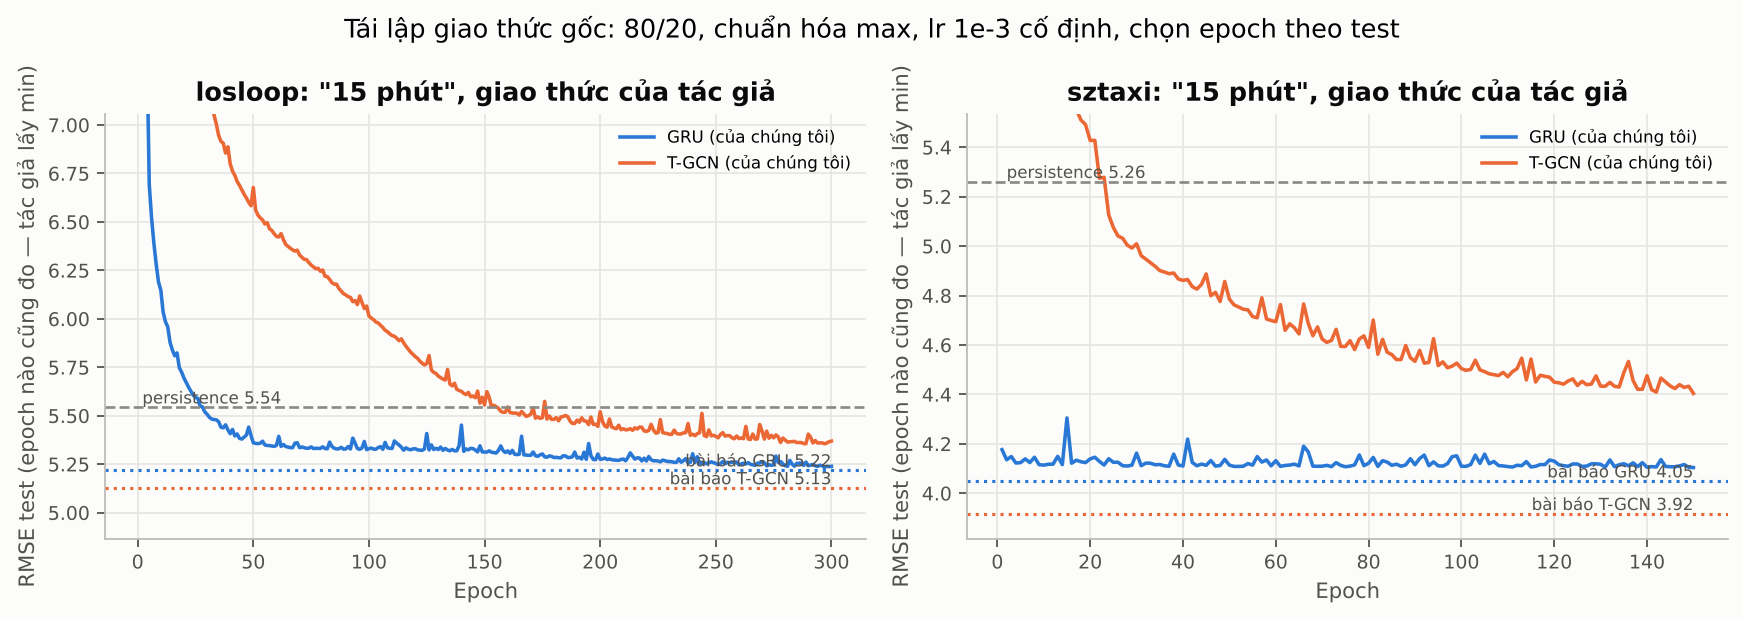
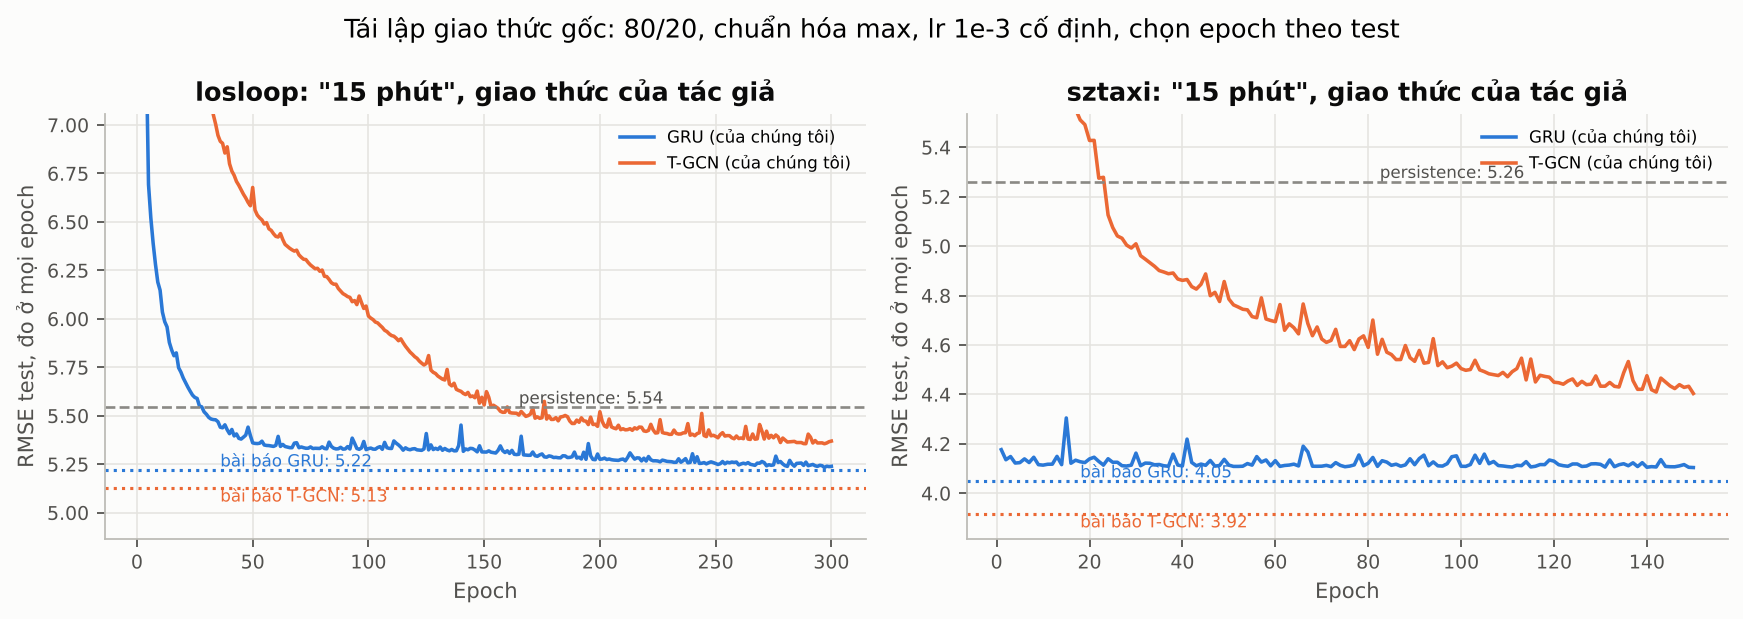
Critique: SZ-taxi HA baseline in the paper is ~1.9x too weak
On the authors' own test windows a 12-step moving average reaches
RMSE 4.17 / MAE 2.74 on SZ-taxi (paper HA: 7.92 / 5.50), within ~1%
MAE of the reported T-GCN.

Claude-Session: https://claude.ai/code/session_01B22viBVGJcNTDcZfHB3jNA

diff --git a/analysis/paper_protocol.py b/analysis/paper_protocol.py
@@ -23,7 +23,9 @@ def naive_same_windows(ds, pre_len, seq_len=12):
         X.append(test[i:i + seq_len]); Y.append(test[i + seq_len:i + seq_len + pre_len])
     X, Y = np.array(X), np.array(Y)
     e = np.repeat(X[:, -1:], pre_len, 1) - Y
-    return float(np.sqrt((e ** 2).mean())), float(np.abs(e).mean())
+    w = np.repeat(X.mean(1, keepdims=True), pre_len, 1) - Y
+    return (float(np.sqrt((e ** 2).mean())), float(np.abs(e).mean()),
+            float(np.sqrt((w ** 2).mean())), float(np.abs(w).mean()))
 
 
 def main():
@@ -31,8 +33,10 @@ def main():
     fig, axes = plt.subplots(1, 2, figsize=(11, 3.9))
     for ax, ds in zip(axes, ('losloop', 'sztaxi')):
         pre, mins = SETUP[ds]
-        nr, na = naive_same_windows(ds, pre)
+        nr, na, hr, ha = naive_same_windows(ds, pre)
         rows.append({'dataset': ds, 'model': 'naive', 'epochs': 0, 'RMSE': nr, 'MAE': na})
+        rows.append({'dataset': ds, 'model': 'ha_window', 'epochs': 0, 'RMSE': hr, 'MAE': ha,
+                     'paper_RMSE': PAPER[ds]['ha_window'][mins][0], 'paper_MAE': PAPER[ds]['ha_window'][mins][1]})
         for i, m in enumerate(('gru', 'tgcn')):
             d = ROOT / 'results' / ds / 'paper_protocol' / m / 'seed_42'
             if not (d / 'metrics.json').is_file():
@@ -47,14 +51,14 @@ def main():
                          'RMSE_epoch_half': float(h.test_rmse_raw_monitor.iloc[len(h) // 2 - 1])})
             ax.plot(h.epoch, h.test_rmse_raw_monitor, color=ps.color(m), lw=1.6, label=f'{ps.label(m)} (của chúng tôi)')
             ax.axhline(PAPER[ds][m][mins][0], color=ps.color(m), ls=':', lw=1.4)
-            ax.text(h.epoch.iloc[-1], PAPER[ds][m][mins][0], f'bài báo {ps.label(m)} {PAPER[ds][m][mins][0]:.2f}',
-                    ha='right', va='bottom', fontsize=7.5, color=ps.INK2)
+            ax.text(len(h) * 0.12, PAPER[ds][m][mins][0], f'bài báo {ps.label(m)}: {PAPER[ds][m][mins][0]:.2f}',
+                    ha='left', va='bottom' if m == 'gru' else 'top', fontsize=7.5, color=ps.color(m))
         ax.axhline(nr, color=ps.NEUTRAL, ls='--', lw=1.2)
-        ax.text(2, nr, f'persistence {nr:.2f}', fontsize=7.5, color=ps.INK2, va='bottom')
+        ax.text(len(h) * 0.55, nr, f'persistence: {nr:.2f}', fontsize=7.5, color=ps.INK2, va='bottom')
         lo = min(r['RMSE'] for r in rows if r['dataset'] == ds) * 0.93
         ax.set_ylim(lo, lo * 1.45)
         ax.set(title=f'{ds}: "{mins} phút", giao thức của tác giả', xlabel='Epoch',
-               ylabel='RMSE test (epoch nào cũng đo — tác giả lấy min)')
+               ylabel='RMSE test, đo ở mọi epoch')
         ax.legend(fontsize=7.5, loc='upper right')
     fig.suptitle('Tái lập giao thức gốc: 80/20, chuẩn hóa max, lr 1e-3 cố định, chọn epoch theo test', fontsize=11.5)
     fig.tight_layout(); fig.savefig(FIG / 'paper_protocol_curves.png'); plt.close(fig)

diff --git a/tools/build_report.py b/tools/build_report.py
@@ -212,9 +212,11 @@ def paper_protocol_table():
     rows = []
     for _, r in df.iterrows():
         mins = '15 phút'
-        if r.model == 'naive':
-            rows.append({'Bộ dữ liệu': r.dataset, 'Mô hình': label('naive'), 'epoch train': '—',
-                         'Chúng tôi (RMSE / MAE)': f'{r.RMSE:.3f} / {r.MAE:.3f}', 'Bài báo (RMSE / MAE)': '— (không báo cáo)',
+        if r.model in ('naive', 'ha_window'):
+            rows.append({'Bộ dữ liệu': r.dataset, 'Mô hình': label(r.model), 'epoch train': '—',
+                         'Chúng tôi (RMSE / MAE)': f'{r.RMSE:.3f} / {r.MAE:.3f}',
+                         'Bài báo (RMSE / MAE)': '— (không báo cáo)' if r.model == 'naive'
+                         else f'{r.paper_RMSE:.3f} / {r.paper_MAE:.3f}',
                          'Accuracy / R² (chúng tôi | bài báo)': '—'})
             continue
         rows.append({'Bộ dữ liệu': r.dataset, 'Mô hình': label(r.model), 'epoch train': f'{int(r.epochs)} (tốt nhất: {int(r.best_epoch)})',

diff --git a/reports/BAO_CAO_TGCN.md b/reports/BAO_CAO_TGCN.md
@@ -144,6 +144,8 @@ Không có tập validation. Đây là rò rỉ thông tin từ test vào lựa 
 
 **P6. "Không nhạy với tầm dự báo" là tính chất của dữ liệu, không phải của mô hình.** Trên SZ-taxi, RMSE của T-GCN chỉ tăng từ 3.92 (15 phút) lên 4.01 (60 phút). Nhưng chính trung bình trượt 3 giờ (HA cửa sổ) cũng gần như phẳng (4.16 → 4.31 trong thực nghiệm của chúng tôi): chuỗi SZ-taxi nhiễu và gần như dừng ở độ phân giải 15 phút, nên tầm dự báo ít quan trọng với *mọi* mô hình.
 
+**P6b. Baseline HA trên SZ-taxi yếu bất thường.** Trên đúng các cửa sổ test của tác giả, trung bình 12 bước đầu vào (định nghĩa HA mà con số Los-loop của bài báo khớp: 7.48 / 3.97 so với 7.44 / 4.01) cho SZ-taxi **RMSE 4.17 / MAE 2.74**, trong khi bài báo ghi HA = 7.92 / 5.50. Với baseline đúng, khoảng cách "T-GCN tốt hơn HA 50.6%" biến mất: MAE của T-GCN (2.71) chỉ hơn trung bình trượt 3 giờ khoảng 1%, MAE của GRU (2.68) khoảng 2%.
+
 **P7. Một lần chạy, không có độ biến thiên.** Bảng 1 không có độ lệch chuẩn hay kiểm định. Khi chênh lệch giữa GRU và T-GCN chỉ khoảng 1–3%, không thể biết nó có vượt nhiễu do khởi tạo ngẫu nhiên hay không (mục 8).
 
 **P8. Dữ liệu.** Los-loop chỉ dài 7 ngày và chứa đoạn nội suy (gồm một lần mất dữ liệu toàn mạng); SZ-taxi có 24.8% giá trị 0 vốn là thiếu quan sát nhưng vẫn được dùng làm mục tiêu (mục 2.3).
@@ -515,8 +517,12 @@ Chúng tôi chạy lại GRU và T-GCN theo **đúng giao thức trong mã của
 | Bộ dữ liệu | Mô hình | epoch train | Chúng tôi (RMSE / MAE) | Bài báo (RMSE / MAE) | Accuracy / R² (chúng tôi | bài báo) |
 |---|---|---|---|---|---|
 | losloop | Naive (giữ giá trị cuối) | — | 5.543 / 3.156 | — (không báo cáo) | — |
+| losloop | HA (TB cửa sổ) | — | 7.475 / 3.972 | 7.443 / 4.014 | — |
+| losloop | GRU | 300 (tốt nhất: 297) | 5.233 / 2.974 | 5.218 / 3.060 | 0.911 / 0.857 | 0.911 / 0.858 |
 | losloop | T-GCN | 300 (tốt nhất: 297) | 5.356 / 3.247 | 5.126 / 3.180 | 0.909 / 0.851 | 0.913 / 0.863 |
 | sztaxi | Naive (giữ giá trị cuối) | — | 5.260 / 3.317 | — (không báo cáo) | — |
+| sztaxi | HA (TB cửa sổ) | — | 4.174 / 2.739 | 7.920 / 5.497 | — |
+| sztaxi | GRU | 150 (tốt nhất: 150) | 4.104 / 2.741 | 4.048 / 2.681 | 0.714 / 0.846 | 0.718 / 0.850 |
 | sztaxi | T-GCN | 150 (tốt nhất: 150) | 4.404 / 3.074 | 3.916 / 2.706 | 0.693 / 0.822 | 0.731 / 0.854 |
 
 ![Hình 19. RMSE test theo epoch dưới giao thức của tác giả; đường chấm: con số trong bài báo; đường gạch: persistence trên đúng các cửa sổ test đó](figures/paper_protocol_curves.png)
@@ -525,7 +531,7 @@ Nhận xét:
 
 - **GRU tái lập được bài báo ngay cả với ít epoch** (bão hòa sớm). **T-GCN hội tụ rất chậm** dưới chuẩn hóa max và lr cố định: Los-loop 6.01 (epoch 100) → 5.52 (200) → 5.36 (300), vẫn đang giảm; với 3000 epoch có thể tiến tới con số 5.13 của bài báo. Chúng tôi không ngoại suy; điều chắc chắn là ở cùng ngân sách huấn luyện, T-GCN chưa vượt GRU.
 - **Ngay cả dưới giao thức của tác giả, MAE của T-GCN (3.25) vẫn kém persistence (3.16)** trên đúng các cửa sổ test đó — điểm P4 không phụ thuộc vào cách chúng tôi huấn luyện.
-- Trên SZ-taxi, T-GCN sau 150 epoch (RMSE 4.40) còn kém trung bình trượt 3 giờ (4.16) — với chuỗi nhiễu như SZ-taxi, phần lớn "kỹ năng" mà bài báo báo cáo có thể đạt bằng một trung bình trượt.
+- Trên SZ-taxi, GRU tái lập sát bài báo (4.10 / 2.74 so với 4.05 / 2.68) ngay từ những epoch đầu, còn T-GCN sau 150 epoch (4.40, epoch tốt nhất là epoch cuối) vẫn kém trung bình trượt 3 giờ trên cùng cửa sổ (4.17 / 2.74). Với chuỗi nhiễu như SZ-taxi, gần như toàn bộ "kỹ năng" mà bài báo báo cáo đạt được bằng một trung bình trượt (P6b).
 - Giao thức nghiêm ngặt của chúng tôi (z-score theo train, lr cosine, dừng sớm bằng validation) cho T-GCN hội tụ trong ~100 epoch; đây là lý do chúng tôi dùng nó cho mọi so sánh chính.
 
 ### 9.3 Tóm tắt các giả thuyết

diff --git a/reports/_draft_part_critique.md b/reports/_draft_part_critique.md
@@ -19,6 +19,8 @@ Không có tập validation. Đây là rò rỉ thông tin từ test vào lựa 
 
 **P6. "Không nhạy với tầm dự báo" là tính chất của dữ liệu, không phải của mô hình.** Trên SZ-taxi, RMSE của T-GCN chỉ tăng từ 3.92 (15 phút) lên 4.01 (60 phút). Nhưng chính trung bình trượt 3 giờ (HA cửa sổ) cũng gần như phẳng (4.16 → 4.31 trong thực nghiệm của chúng tôi): chuỗi SZ-taxi nhiễu và gần như dừng ở độ phân giải 15 phút, nên tầm dự báo ít quan trọng với *mọi* mô hình.
 
+**P6b. Baseline HA trên SZ-taxi yếu bất thường.** Trên đúng các cửa sổ test của tác giả, trung bình 12 bước đầu vào (định nghĩa HA mà con số Los-loop của bài báo khớp: 7.48 / 3.97 so với 7.44 / 4.01) cho SZ-taxi **RMSE 4.17 / MAE 2.74**, trong khi bài báo ghi HA = 7.92 / 5.50. Với baseline đúng, khoảng cách "T-GCN tốt hơn HA 50.6%" biến mất: MAE của T-GCN (2.71) chỉ hơn trung bình trượt 3 giờ khoảng 1%, MAE của GRU (2.68) khoảng 2%.
+
 **P7. Một lần chạy, không có độ biến thiên.** Bảng 1 không có độ lệch chuẩn hay kiểm định. Khi chênh lệch giữa GRU và T-GCN chỉ khoảng 1–3%, không thể biết nó có vượt nhiễu do khởi tạo ngẫu nhiên hay không (mục 8).
 
 **P8. Dữ liệu.** Los-loop chỉ dài 7 ngày và chứa đoạn nội suy (gồm một lần mất dữ liệu toàn mạng); SZ-taxi có 24.8% giá trị 0 vốn là thiếu quan sát nhưng vẫn được dùng làm mục tiêu (mục 2.3).

diff --git a/reports/_draft_part6.md b/reports/_draft_part6.md
@@ -23,7 +23,7 @@ Nhận xét:
 
 - **GRU tái lập được bài báo ngay cả với ít epoch** (bão hòa sớm). **T-GCN hội tụ rất chậm** dưới chuẩn hóa max và lr cố định: Los-loop 6.01 (epoch 100) → 5.52 (200) → 5.36 (300), vẫn đang giảm; với 3000 epoch có thể tiến tới con số 5.13 của bài báo. Chúng tôi không ngoại suy; điều chắc chắn là ở cùng ngân sách huấn luyện, T-GCN chưa vượt GRU.
 - **Ngay cả dưới giao thức của tác giả, MAE của T-GCN (3.25) vẫn kém persistence (3.16)** trên đúng các cửa sổ test đó — điểm P4 không phụ thuộc vào cách chúng tôi huấn luyện.
-- Trên SZ-taxi, T-GCN sau 150 epoch (RMSE 4.40) còn kém trung bình trượt 3 giờ (4.16) — với chuỗi nhiễu như SZ-taxi, phần lớn "kỹ năng" mà bài báo báo cáo có thể đạt bằng một trung bình trượt.
+- Trên SZ-taxi, GRU tái lập sát bài báo (4.10 / 2.74 so với 4.05 / 2.68) ngay từ những epoch đầu, còn T-GCN sau 150 epoch (4.40, epoch tốt nhất là epoch cuối) vẫn kém trung bình trượt 3 giờ trên cùng cửa sổ (4.17 / 2.74). Với chuỗi nhiễu như SZ-taxi, gần như toàn bộ "kỹ năng" mà bài báo báo cáo đạt được bằng một trung bình trượt (P6b).
 - Giao thức nghiêm ngặt của chúng tôi (z-score theo train, lr cosine, dừng sớm bằng validation) cho T-GCN hội tụ trong ~100 epoch; đây là lý do chúng tôi dùng nó cho mọi so sánh chính.
 
 ### 9.3 Tóm tắt các giả thuyết
